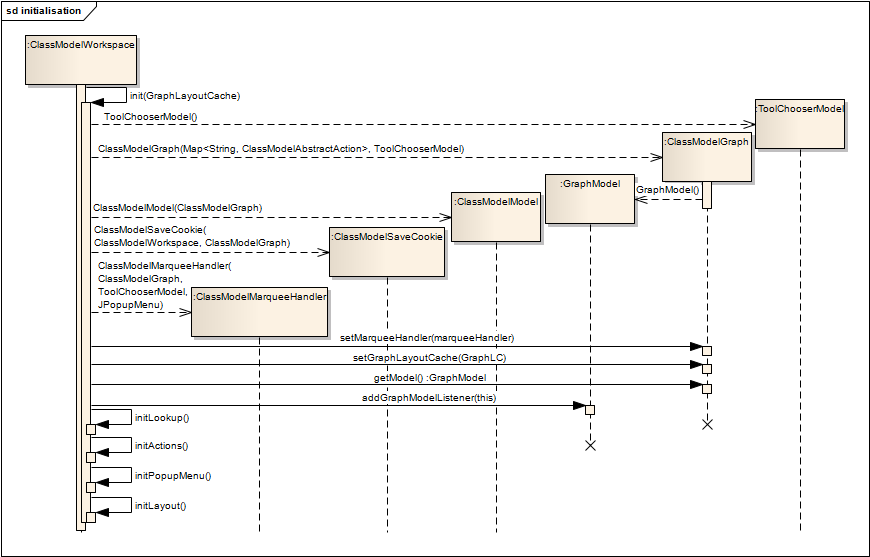
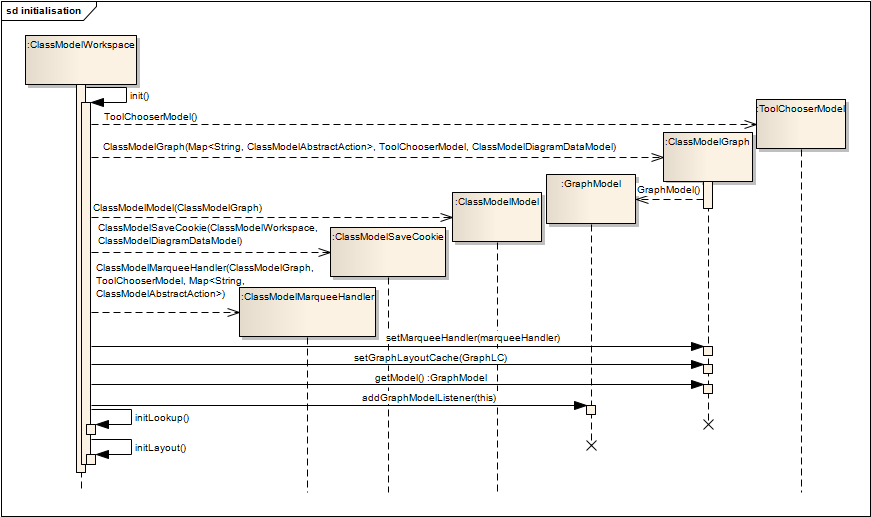
documentation update according to the change of the code

diff --git a/documentation/implementation/implementation.tex b/documentation/implementation/implementation.tex
@@ -74,7 +74,7 @@ This module consists of Interfaces which implementations can be found in the loo
 
 \subsection{ClassModel API (cz.cvut.indepmod.classmodel.api.model)}
 
-In this package there are interfaces which can be used to read the Class Model Notation Model. There is an implementation of the IClassModelModel interface in the workspace lookup. This object provides the list of Classes from a model. Classes provides the list of annotations, attributes, methods and relations to other classes. And so on with the attributes, etc. 
+In this package there are interfaces which can be used to read the Class Model Notation Model. There is an implementation of the IClassModelModel interface in the workspace lookup. This object provides the information about the type of model (business model / class model) and list of Classes from a model. Classes provides the list of annotations, attributes, methods and relations to other classes. And so on with the attributes, etc. 
 
 Relation between (two) classes is represented by instance of IRelation interface. IClass returns the list of IRelations that belongs to it. IRelation holds information about its type (simple relation, composition, agregation, generalization, implementation) and about what class is at the beginning and at the end of the relation, including cardinalities. 
 
@@ -151,9 +151,8 @@ This is the fundamental module whose purpose is to create a workspace where user
 Main class (part of the cz.cvut.indepmod.classmodel.workspace package), which comprises the workspace, is the ClassModelWorkspace. Thus, if you want to study the code, you should start right here. ClassModelWorkspace is extended from the TopComponent. This class is responsible for whole initialisation. It creates:
 \begin{itemize}
     \item ClassModelGraph - this class is extended from JGraph and represents the class model graph to the user. Instance of this class is situated inside the ClassModelWorkspace component (JGraph is also derived from JComponent)
-    \item ClassModelModel - Implementation of IClassModelModel which returns the list of classes that are in the class model.
+    \item ClassModelModel - Implementation of IClassModelModel which returns the list of classes that are in the class model and the type of the diagram (class or business model).
     \item ClassModelMarqueeHandler - this class is responsible for handling of user inputs that are made inside the ClassModelGraph.
-    \item JPopupMenu - this popup menu is used inside the ClassModelGraph
 \end{itemize}
 
 ClassModelWorkspace is simply JComponent (TopComponent) which has the JGraph inside. JGraph presents the class model to the user. There are cells (representing classes) which are related together by edges (representing relations).
@@ -162,15 +161,15 @@ In next section I will try to describe the implementation of the Editor Module. 
 
 \subsection{Editor Module Initialisation}
 
-As I have already said before, the ClassModelWorkspace class do the initialization of the whole module. There are two cases of initialization. The first case, when user creates new class diagram, and the second, when user opens an existing file. Both cases are very similar. They differ only in the way of GraphLayoutCache initialization. For this purpose there are two constructor variants.
+As I have already said before, the ClassModelWorkspace class do the initialization of the whole module. There are two cases of initialization. The first case, when user creates new class diagram, and the second, when user opens an existing file. Both cases are very similar. They differ only in the way of ClassModelDiagramDataModel initialization. For this purpose there are two constructor variants.
 
-The first, non parametric, is used when the new class diagram (with no associated file) is created. This constructor creates new instance of GraphLayoutCache by ClassModelDiagramModelFactory.
+The first, non parametric, is used when the new class diagram (with no associated file) is created. This constructor creates new instance of ClassModelDiagramDataModel by ClassModelDiagramModelFactory.
 
-The second constructor is used when the user opens a file with a class model. It accepts an instance of ClassModelXMLDataObject (one parameter). This object represents the file in which is the class model saved (more in the chapter \ref{subsection:fileAssociation}). The constructor gets the name (path) of that file and asks the ClassModelXMLCoder to decode its content. ClassModelXMLCoder decodes it and returns GraphLayoutCache instance filled according to that file's content. ClassModelXMLCoder is part of the persistence layer and will be discussed in the chapter \ref{subsection:persistence}.
+The second constructor is used when the user opens a file with a class model. It accepts an instance of ClassModelXMLDataObject (one parameter). This object represents the file in which is the class model saved (more in the chapter \ref{subsection:fileAssociation}). The constructor gets the input stream of that file and asks the ClassModelXMLCoder to decode its content. ClassModelXMLCoder decodes it and returns ClassModelDiagramDataModel instance filled according to that file's content. ClassModelXMLCoder is part of the persistence layer and will be discussed in the chapter \ref{subsection:persistence}.
 
-%The second, which accepts ClassModelXMLDataObject instance, is used when there is a class model saved in a file. It finds out the name (path) of associated file and ask ClassModelXMLCoder for decoding. ClassModelXMLCoder decodes the file and returns loaded GraphLayoutCache (with all data).
+ClassModelDiagramDataModel class represents the data which has to be persisted when user want to save his class diagram. At present, instance of this class holds the GraphLayoutCache instance (class of JGraph framework which holds the information about cells in the graph), list of static data types (default list of data types for certain language which is chosen during new class diagram file creation) and the type of the diagram (class or business model, it is also chosen during new file creation).
 
-After the GraphLayoutCache is gained (created or loaded) the initialization is the same. What the ClassModelWorkspace creates have been already written up. For better understanding you can see the sequence diagram in the Figure \ref{f-ClassModelWorkspaceInicializationSimple} which shows the initialisation of new ClassModelWorkspace. For simplicity there is only what ClassModelWorkspace creates. The processes inside these classes are not shown (Sequence diagram would have been really big) but it will be discussed later.
+After the ClassModelDiagramDataModel is gained (created or loaded) the initialization is the same. What the ClassModelWorkspace creates have been already written up. For better understanding you can see the sequence diagram in the Figure \ref{f-ClassModelWorkspaceInicializationSimple} which shows the initialisation of new ClassModelWorkspace. For simplicity there is only what ClassModelWorkspace creates. The processes inside these classes are not shown (Sequence diagram would have been really big) but it will be discussed later.
 
 \begin{figure}[!ht]
 \begin{center}
@@ -185,9 +184,7 @@ After the GraphLayoutCache is gained (created or loaded) the initialization is t
 
 Netbeans platform allows its plug-ins to recognize new types of files. So when you want to associate new file type with your plugin, you can do it easily. If you are not familiar with this, you can find it in the \cite{netbeans6.9DevGuide} in the chapter called Data System.
 
-%When user wants to create new class diagram, he has to have an opened project. Then he simply adds new class diagram file (Other \ding{221} Empty ClassModelXML file) into this project.
-
-The file type association settings can be found in layer.xml file. This file is used for settings of Netbeans module. At present there is settings of action that opens new class diagram without associated file, file type association and settings of template that can be used to create new class diagram file. Files that are associated with this plugin are xml files with .cls suffix. Content of the file will be discussed later.
+The file type association settings can be found in layer.xml file. This file is used for settings of Netbeans module. At present there is settings of file type association and settings of wizard that can be used to create new class diagram file. In this wizard user sets the name of the file, type of the diagram and the language (Java, C++, etc.). Files that are associated with this plugin are xml files with .cls suffix. Content of the file will be discussed later.
 
 \subsection{ClassModelGraph implementation}
 
@@ -200,7 +197,7 @@ ClassModelGraph is extended from JGraph and adds some functionality for Class ma
     \item getAllTypes() - returns the list of all data types in the diagram. In addition to the classes (the class is a data type) there are also static data types (like String or int in Java).
 \end{itemize} 
 
-For event handling in the graph (ClassModelGraph) there is the ClassModelMarqueeHandler. Instance of this class is created in the ClassModelWorkspace and is added into the ClassModelGraph instance. Purpose of this class is to handle all user inputs in the ClassModelGraph (in the canvas of the graph). When user does an action (e.g. click with mouse), the ClassModelMarqueeHandler will find out if it is a control click (e.g. cell selection), new cell addition, edge (line between cells) addition and so on. This class is also responsible for rendering of the temporary line when user creates new edge.
+For event handling in the graph (ClassModelGraph) there is the ClassModelMarqueeHandler. Instance of this class is created in the ClassModelWorkspace and is added into the ClassModelGraph instance. Purpose of this class is to handle all user inputs in the ClassModelGraph (in the canvas of the graph) and control the popup menu (JPopupMenu and its content). When user does an action (e.g. click with mouse), the ClassModelMarqueeHandler will find out if it is a control click (e.g. cell selection), new cell addition, edge (line between cells) addition and so on. This class is also responsible for rendering of the temporary line when user creates new edge.
 
 \subsection{ClassModel API implementation}
 \label{subsection:apiImplementation}
@@ -221,15 +218,9 @@ So problem is solved. Some information like the name are stored inside the User 
 
 \subsection{JGraph class cell rendering}
 
-%In this section I will explain how I render the class (the rectangle with the class name and lists of annotations, attributes and methods) into the JGraph workspace. JGraph basically supports rendering of basic shapes like rectangles, ovals and so on. When you want to render your own shape, you have to create your own CellViewFactory implementation which will create your own VertexView. VertexView provides, among other things, the CellViewRenderer and it returns a Component (java.awt) which can be printed into the JGraph workspace. More on this theme can be found in \cite{jgraphmanual}.
-
 In this section I will explain how I render the class (the rectangle with the class name and lists of annotations, attributes and methods) into the JGraph workspace. But first a little theory remind. JGraph uses MVC pattern for cell rendering. Cells (the model of cell) in JGraph are represented by DefaultGraphCell (or its subclasses). DefaultGraphCell implementation stores the user object and an attribute map inside which is used when you want to set the appearance of that cell. All graph cell has an associated view (VertexView implementation). This VertexView implementation associates the renderer, editor and cell handle together for an cell (DefaultGraphCell implementation). The cell and view is associated together by CellViewFactory which returns a cell view for a particular cell. More on this theme can be found in \cite{jgraphmanual}.
 
 JGraph basically supports rendering of basic shapes like rectangles, ovals and so on. When you want to render your own shape, you have to create your own cell view (VertexView), renderer (CellViewRenderer) and CellViewFactory implementation.
-
-% JGraph VertexView provides, among other things, the CellViewRenderer and it returns a Component (java.awt) which can be printed into the JGraph workspace. More on this theme can be found in \cite{jgraphmanual}.
-
-%So this is exactly what I did. I created ClassModelCellViewFactory which is derived from JGraph's DefaultCellViewFactory and overrides it's method createVertexView(Object o). This method returns new instance of ClassModelVertexView (derived from JGraph's VertexView). ClassModelVertexView returns statically instantiated ClassModelVertexRenderer which is derived from VertexRenderer and overrides method getRendererComponent(...). This method returns new instance of ClassComponent if the User Object of the cellView (argument) is of ClassModel type. ClassComponent is extended from JComponent and renders the class according to the ClassModel user object.
 
 So this is exactly what I did. I created ClassModelCellViewFactory which is derived from JGraph's DefaultCellViewFactory and overrides it's method createVertexView(Object o). If the object in the parameter is instance of ClassModelClassCell class, the method returns new instance of ClassModelVertexView (derived from JGraph's VertexView). Otherwise the method returns the default view (calls its parent's method). ClassModelVertexView returns statically instantiated ClassModelVertexRenderer which is derived from VertexRenderer and overrides its method getRendererComponent(...). This method returns new instance of ClassComponent if the User Object of the cellView (argument) is of ClassModel type. ClassComponent is extended from JComponent and renders the class according to the ClassModel user object.
 
@@ -246,7 +237,7 @@ These classes can be found in the package cz.cvut.indepmod.classmodel.workspace.
 \subsection{Persistence}
 \label{subsection:persistence}
 
-Persistence layer implementation is situated in the cz.cvut.indepmod.classmodel.persistence.xml package. There is a ClassModelXMLCoder class that is created as a singleton. Instance of this class is responsible for encoding and decoding the GraphLayoutCache instance into or from a file. Its method for encoding, encode(GraphLayoutCache cache, String filename), is called by SaveCookie (discussed in the section \ref{subsection:lookup}).
+Persistence layer implementation is situated in the cz.cvut.indepmod.classmodel.persistence.xml package. There is a ClassModelXMLCoder class that is created as a singleton. Instance of this class is responsible for encoding and decoding the ClassModelDiagramDataModel instance into or from a stream (InputStream or OutputStream). Its method for encoding, encode(ClassModelDiagramDataModel model, OutputStream stream), is called by SaveCookie (discussed in the section \ref{subsection:lookup}).
 
 ClassModelXMLCoder uses java.beans.XMLEncoder and java.beans.XMLDecoder. This creates the xml file that represents the steps to create the exactly same object that was encoded. Because XMLEncoder can encode in default only some types of objects, there are some persistence delegates that allow to encode particular object I use. These persistence delegates can be found in the cz.cvut.indepmod.classmodel.persistence.xml.delegate package.
 
@@ -274,6 +265,7 @@ You can see the package structure in this directory tree:
 .1 cz.cvut.indepmod.classmodel.
 .1 actions\DTcomment{Actions for buttons etc.}.
 .1 file\DTcomment{SaveCookie and file type association support}.
+.2 wizard\DTcomment{Wizard for creation of new class model file}.
 .1 frames.
 .2 dialogs.
 .1 modelfactory.
@@ -282,6 +274,7 @@ You can see the package structure in this directory tree:
 .2 xml\DTcomment{implementation of persistence for saving into a XML file}.
 .3 delegate\DTcomment{XML Delegates for mapping into xml}.
 .1 resources.
+.1 util.
 .1 workspace\DTcomment{Main package containing the TopComponent with JGraph}.
 .2 cell\DTcomment{Cells, renderers, VertexViews, etc. for JGraph}.
 .3 components\DTcomment{Component for JGraph}.
@@ -299,7 +292,7 @@ You can see the package structure in this directory tree:
 
 \bibitem{netbeansWebNewFileTemplate}{http://platform.netbeans.org/tutorials/60/nbm-filetemplates.html}
 
-\bibitem{netbeansWebWizardNewFile}{http://blogs.sun.com/geertjan/entry/creating_a_better_java_class} %Wizard for creation of new file
+\bibitem{netbeansWebWizardNewFile}{http://blogs.sun.com/geertjan/entry/creating\_a\_better\_java\_class} %Wizard for creation of new file
 \end{thebibliography}
 
 \end{document}

diff --git a/IndepmodClassNotation/test/unit/src/cz/cvut/indepmod/classmodel/workspace/ClassModelGraphTest.java b/IndepmodClassNotation/test/unit/src/cz/cvut/indepmod/classmodel/workspace/ClassModelGraphTest.java
@@ -1,8 +1,3 @@
-/*
- * To change this template, choose Tools | Templates
- * and open the template in the editor.
- */
-
 package cz.cvut.indepmod.classmodel.workspace;
 
 import cz.cvut.indepmod.classmodel.Common;
